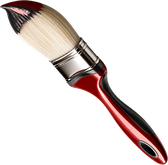
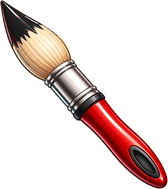
feat(cursor): brocha redonda del cliente como cursor definitivo
La imagen pegada por el cliente (brocha redonda glossy, punta arriba-izquierda),
extraída del transcript y procesada con PIL: fondo damero fuera, variante de
punta NEGRA conservando brillos y el filo dentado de pintura. Hotspot en la
esquina exacta de la punta (TIP 0.01/0.01) y tamaño 42×47 px en pantalla.

Changed region(s): [[0.0, 0.0, 1.0, 1.0]]

diff --git a/src/styles/global.css b/src/styles/global.css
@@ -955,8 +955,8 @@ body::after {
 .brocha-cursor__wrap {
   position: relative;
   display: block;
-  width: 46px;
-  transform-origin: 4% 4%; /* la punta */
+  width: 42px; /* brocha esbelta: ~42×47px en pantalla */
+  transform-origin: 2% 2%; /* la punta */
   transition: transform 0.12s cubic-bezier(0.34, 1.4, 0.64, 1);
   filter: drop-shadow(0 3px 5px rgba(0, 0, 0, 0.35));
 }